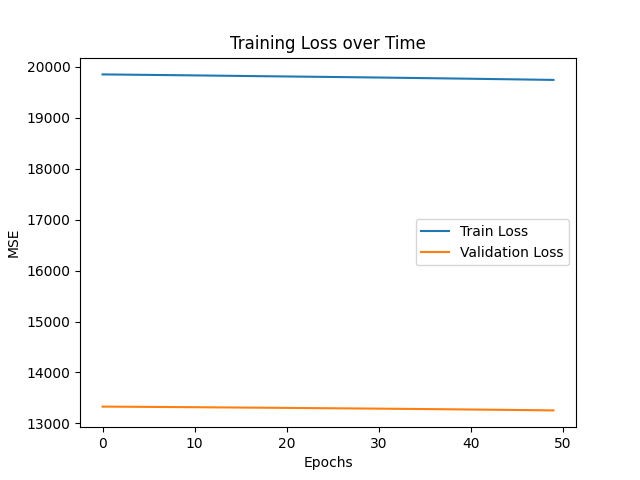
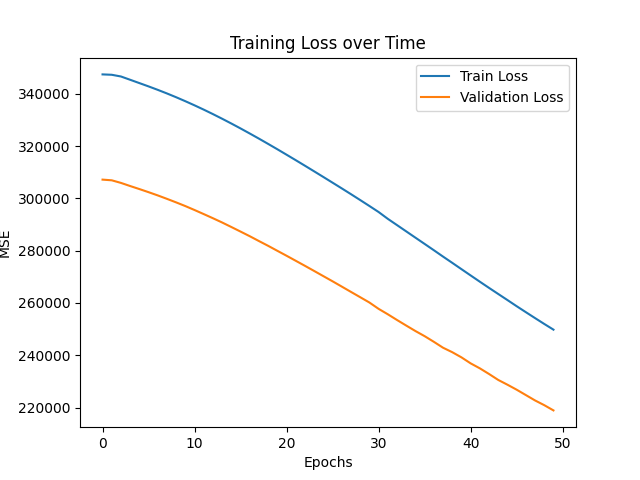
yes

diff --git a/training-service/Helpers/LSTMTraining.py b/training-service/Helpers/LSTMTraining.py
@@ -45,12 +45,12 @@ test_loader = DataLoader(test_dataset, batch_size=16)
 
 # 4⃣ Define LSTM model
 class LSTMModel(nn.Module):
-    def __init__(self, input_size, hidden_size=4):
+    def __init__(self, input_size, hidden_size=32):
         super().__init__()
         self.lstm = nn.LSTM(input_size, hidden_size, batch_first=True)
-        self.fc1 = nn.Linear(hidden_size, 4)
+        self.fc1 = nn.Linear(hidden_size, 32)
         self.relu = nn.ReLU()
-        self.fc2 = nn.Linear(4, 1)
+        self.fc2 = nn.Linear(32, 1)
 
     def forward(self, x):
         _, (h_n, _) = self.lstm(x)  # h_n shape: (1, batch, hidden_size)
@@ -64,7 +64,7 @@ device = torch.device("cuda" if torch.cuda.is_available() else "cpu")
 model = LSTMModel(input_size=num_features).to(device)
 
 criterion = nn.MSELoss()
-optimizer = torch.optim.Adam(model.parameters(), lr=0.001)
+optimizer = torch.optim.Adam(model.parameters(), lr=0.0001)
 
 # 5⃣ Training loop
 num_epochs = 50

diff --git a/training-service/Service/TrainingService.cs b/training-service/Service/TrainingService.cs
@@ -88,7 +88,7 @@ namespace TrainingService.Services
             object listLock = new object(); // for adding to trainingSet.Sequences safely
 
             Parallel.ForEach(edgeSequences,
-                new ParallelOptions { MaxDegreeOfParallelism = 2 },
+                new ParallelOptions { MaxDegreeOfParallelism = 4 },
                 edges =>
                 {
                     double totalTime = CreateTimeForRoute(edges);

diff --git a/training-service/Helpers/dataCreation.py b/training-service/Helpers/dataCreation.py
@@ -5,7 +5,7 @@ import random
 # Configurable parameters
 # -----------------------------
 # Default number of sequences to generate
-NUM_SEQUENCES = 10
+NUM_SEQUENCES = 2000
 SEQUENCE_LENGTH = random.randint(5, 25)
 
 # -----------------------------
